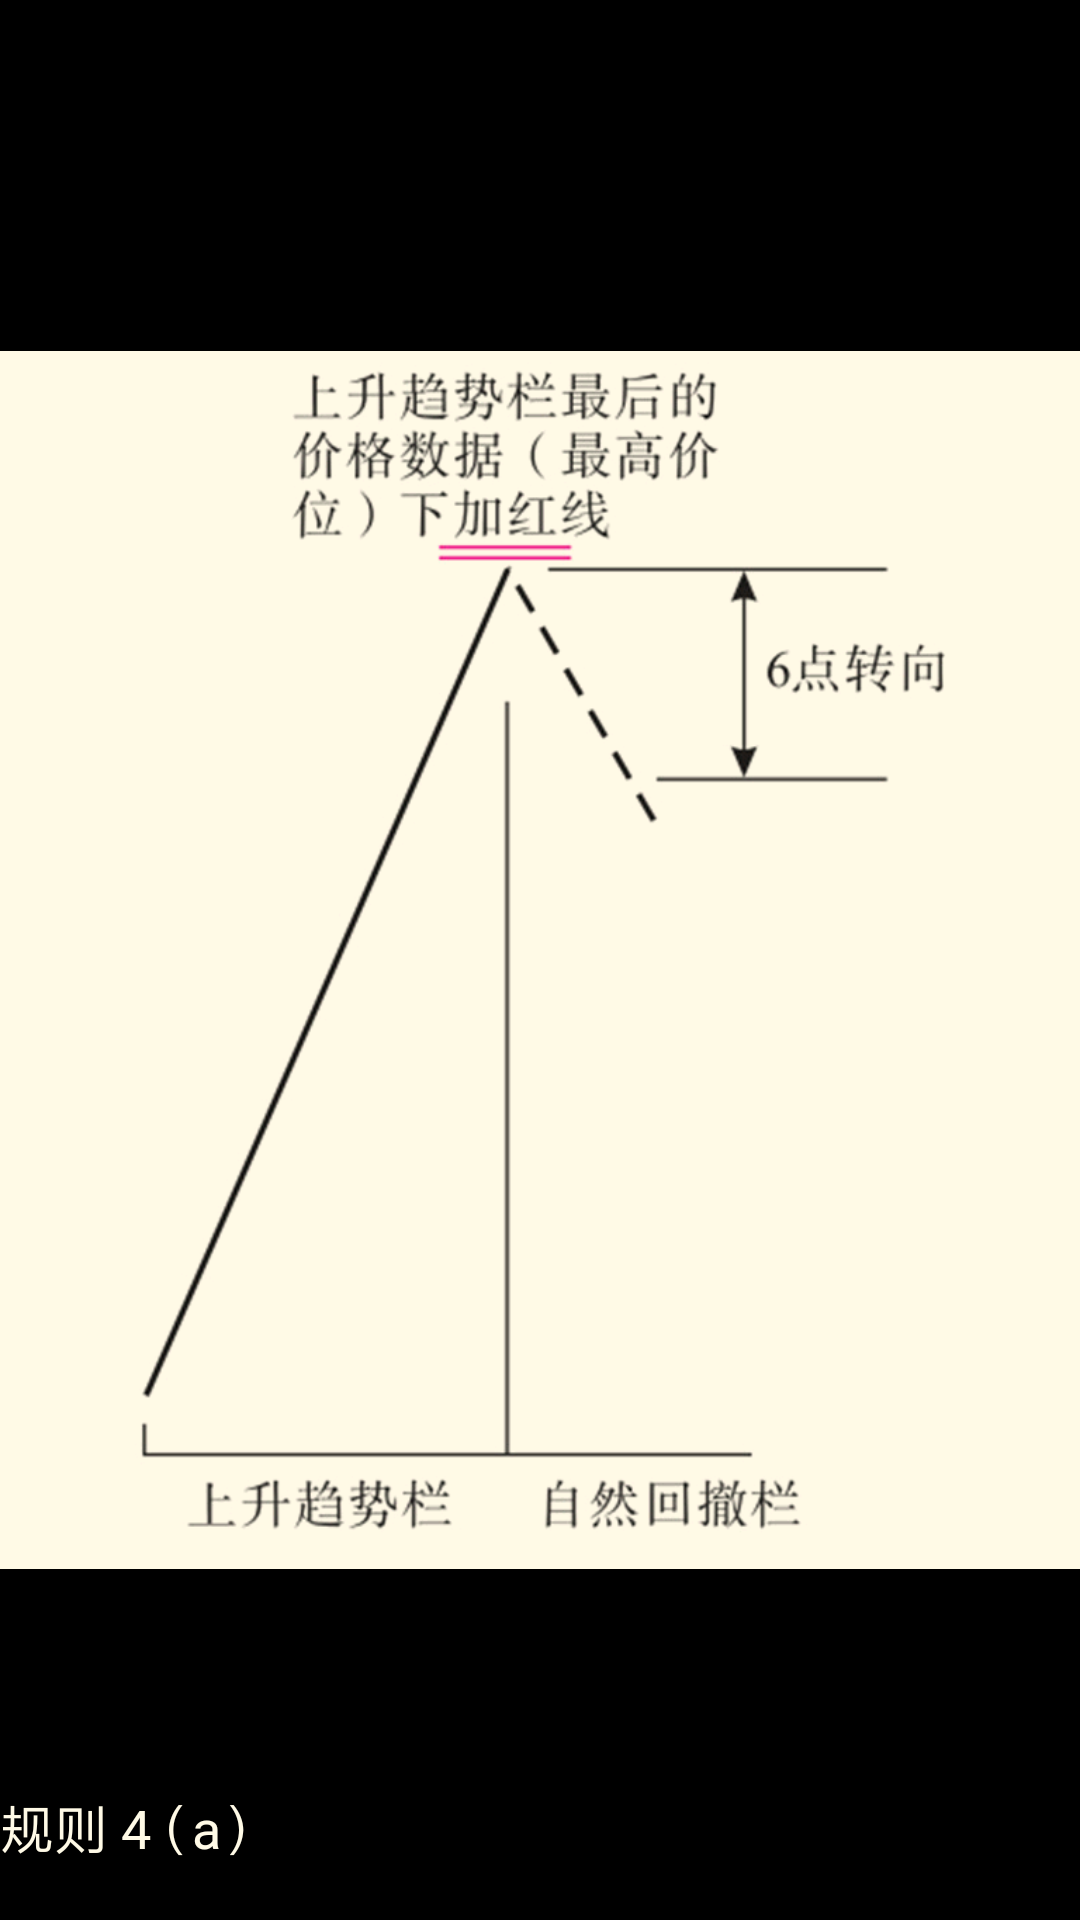
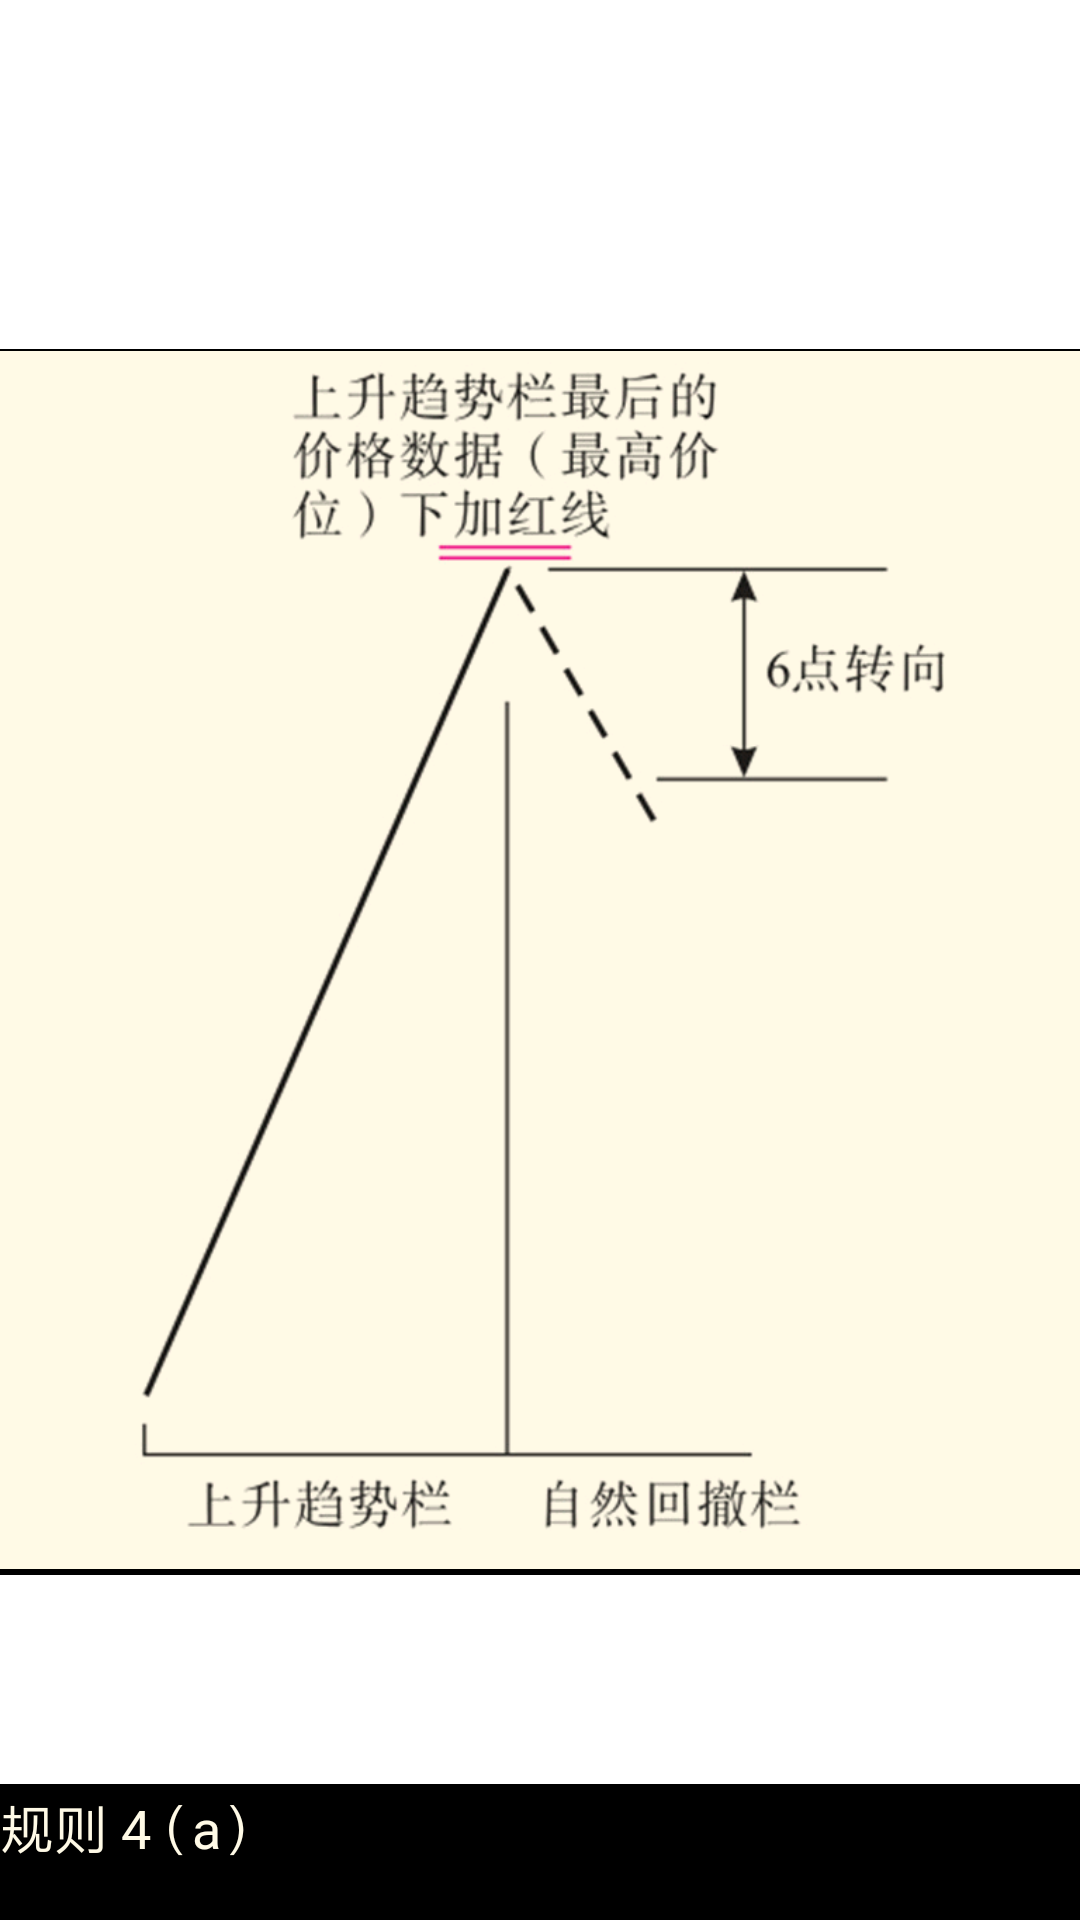
update

Changed region(s): [[0.0, 0.0, 1.0, 0.1875], [0.0, 0.8125, 1.0, 0.9375]]

diff --git a/_posts/2017-12-24-利弗莫尔交易规则.md b/_posts/2017-12-24-利弗莫尔交易规则.md
@@ -18,7 +18,7 @@ permalink: /archivers/trading_rules
 
 下面我们用利弗莫尔的手稿看看他是如何记录三个股票（属于同一个股票群）的数据的，暂时可以先了解一下这六列概念，后面通过利弗莫尔交易规则就可以把数据准确的填入这六列中。
 
-![交易表格记录手稿](https://github.com/zhangxiang2014/zhangxiang2014.github.io/blob/master/_posts/paper_hand.png?raw=true)
+![交易表格记录手稿](https://github.com/zhangxiang2014/zhangxiang2014.github.io/blob/master/_posts/paper_hand.png?raw=true){:height="50%" width="50%"}
 
 ### 1.2 操作规则
 
@@ -31,9 +31,9 @@ permalink: /archivers/trading_rules
 - 数据规则： 
    
 > 规则4(a)：当你开始记录数据时，第一天药同时在上升趋势栏最后一个数据下标最后一个数据下标两条红线。当市场发生回落行情、且下跌幅度距离上升趋势栏最后一个数字约6点时，开始转换记录栏。（**在上升趋势栏最后一个数据下标两条红线，因为那是上升趋势前期最高点，现在成了市场上方的标志性水平--利弗莫尔所说的关键点之一**）    
-> ![](https://github.com/zhangxiang2014/zhangxiang2014.github.io/blob/master/_posts/rule_4a.png?raw=true)
+> ![](https://github.com/zhangxiang2014/zhangxiang2014.github.io/blob/master/_posts/rule_4a.png?raw=true){:height="50%" width="50%"}
 > 规则4(b)：当你开始在自然回升栏或上升趋势栏记录数据时，第一天要同时在自然回撤栏最后一个数据下标两条红线。当市场发生回升行情且上升幅度距离自然回撤栏最后一个数字约6点时，开始转换记录栏。（**一旦市场从自然回撤栏阶段的最低点起向上回升的幅度达到6点，则判断市场已经脱离了自然回撤状态，进入自然回升状态或者上升趋势恢复。转换记录栏，其实就是识别和标注新到来的行情。**）
->  ![](https://github.com/zhangxiang2014/zhangxiang2014.github.io/blob/master/_posts/rule_4b.png?raw=true)
+>  ![](https://github.com/zhangxiang2014/zhangxiang2014.github.io/blob/master/_posts/rule_4b.png?raw=true){:height="50%" width="50%"}
 > **总结一下上述两条规则：现在已经有了两个关键点可供观察，根据市场在这两点附近的表现，就能够形成自己的判断，到底原有的趋势确实即将恢复——还是原来的市场运动已经告终。一般地，如果市场向上突破上升趋势前期最高点重新创新高，则说明调整阶段结束上升趋势恢复；如果市场向下跌破调整阶段的最低点创出新低，则说明市场顶部过程已经完成，原先的上升趋势已经告终。（上图水平红线标注的就是调整阶段的价格区间）**  
 > 
 > 规则4(c)：当你开始在自然回撤栏或下降趋势栏记录数据时，第一天要同时在自然回升栏最后一个数字下标一条黑线。当市场发生回落行情、且下降幅度距离自然回升栏最后一个数字约6个点时，开始转换记录栏。
